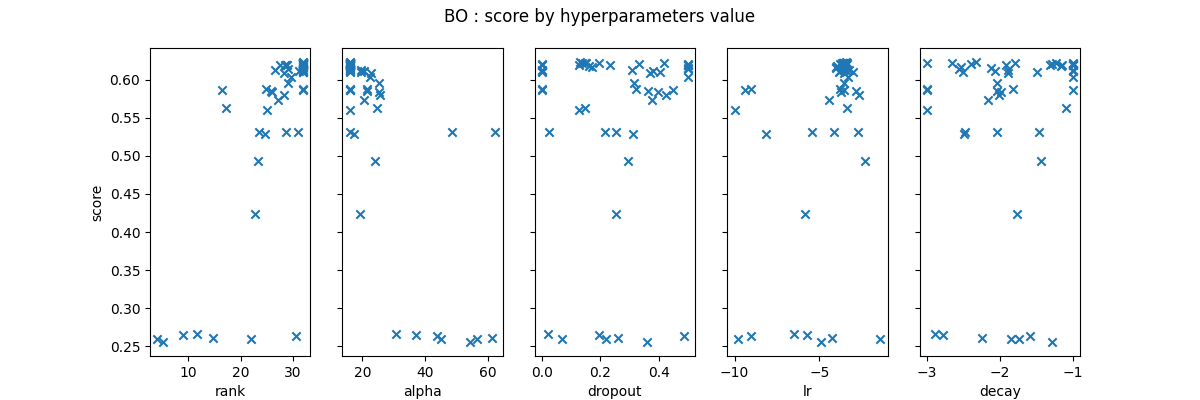
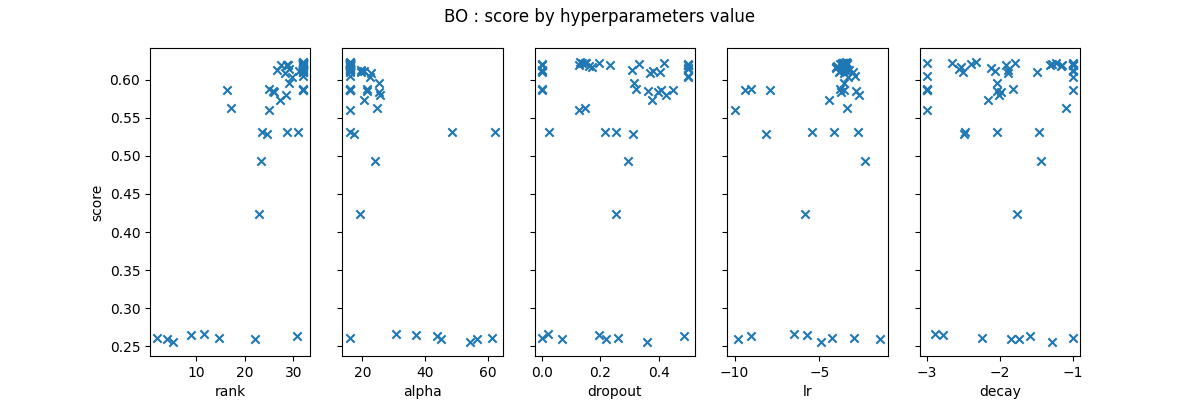
change from acc_norm to acc

diff --git a/results/analysis.py b/results/analysis.py
@@ -5,7 +5,7 @@ import json
 
 # Manage file name depending on interactive env or not
 
-exp_name = "exp11_bis"
+exp_name = "exp12"
 file_name = exp_name + ".json"
 
 #file_name = "results/" + file_name
@@ -76,17 +76,13 @@ conv_values.rename(
     },
     inplace=True
 )
-#Split score between evaluated and approx
-score_state = data["info.score_state"]
 
-evaluated = score[score_state == "evaluated"]
-approx = score[score_state == "approximated"]
 
 
 """--------------------------Plots ------------------------"""
 # Score over time plots
 plt.title(f"{exp_algo[exp_name]} : Score over time")
-plt.scatter(score.index, score["acc_norm"], marker = "x")
+plt.scatter(score.index, score["acc"], marker = "x")
 plt.xlabel("iterations")
 plt.ylabel("Hellaswag acc_norm")
 if exp_name == "exp12" : plt.axvline(10, color='r', linestyle='dashed', linewidth=1, label="sampling")
